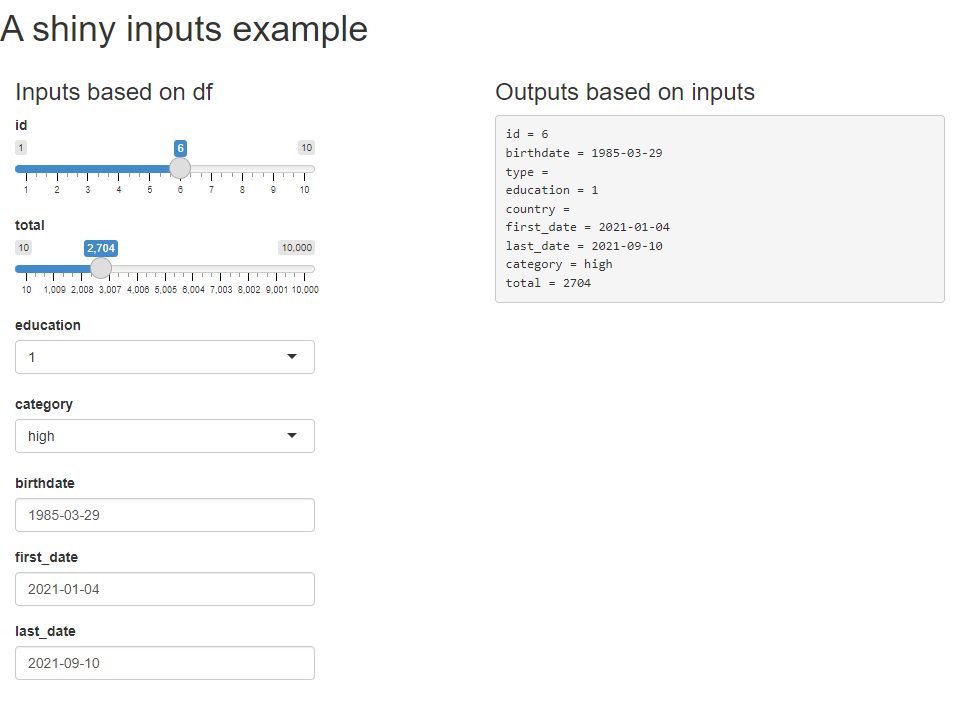
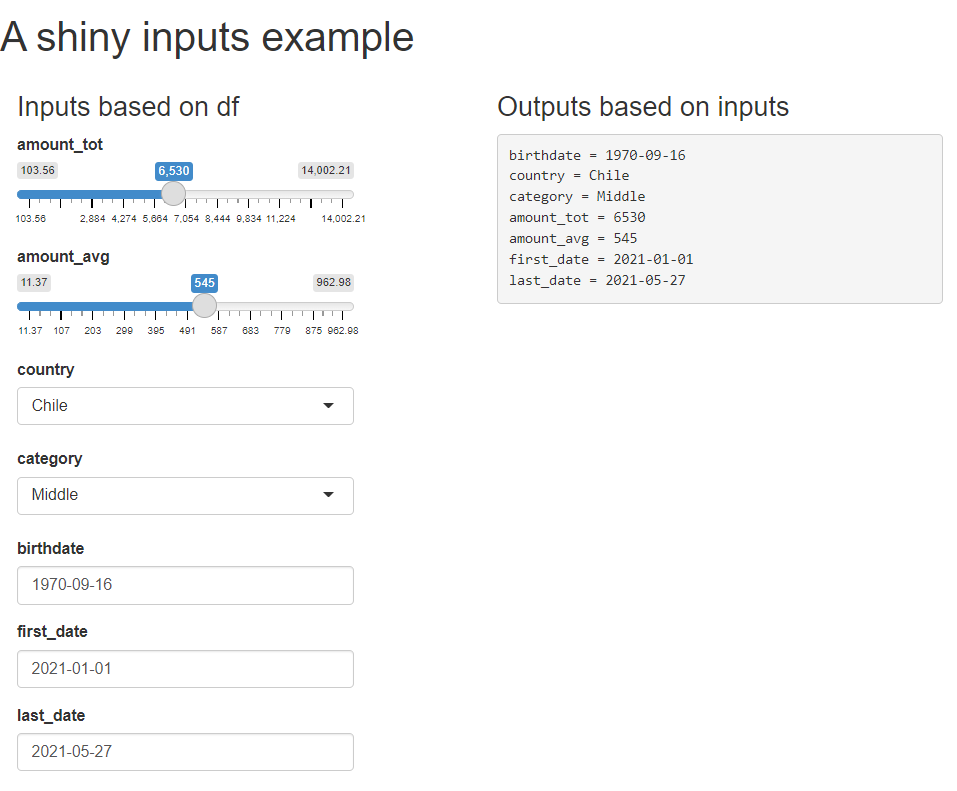
autoinput multiple

diff --git a/README.md b/README.md
@@ -32,21 +32,19 @@ library(shinymatic)
 Data:
 
 ``` r
-load('data/df.rda')
+load('data/customers.rda')
 ```
 
 Data structure:
 
-    ## 'data.frame':    10 obs. of  9 variables:
-    ##  $ id        : num  1 2 3 4 5 6 7 8 9 10
-    ##  $ birthdate : Date, format: "1993-02-08" "1986-04-20" ...
-    ##  $ type      : chr  "regular" "regular" "regular" "lost" ...
-    ##  $ education : Factor w/ 3 levels "1","2","3": 1 2 1 3 1 3 1 1 3 2
-    ##  $ country   : chr  "argentina" "argentina" "uruguay" "brasil" ...
-    ##  $ first_date: Date, format: "2022-02-01" "2021-05-10" ...
-    ##  $ last_date : Date, format: "2022-06-07" "2022-05-10" ...
-    ##  $ category  : Factor w/ 2 levels "high","low": 1 2 1 2 2 2 1 1 1 2
-    ##  $ total     : num  3457 500 10000 15 40 ...
+    ## 'data.frame':    20 obs. of  7 variables:
+    ##  $ birthdate : Date, format: "1999-07-28" "1976-06-26" ...
+    ##  $ country   : Factor w/ 4 levels "Argentina","Brasil",..: 3 1 3 4 3 2 2 3 3 4 ...
+    ##  $ category  : Factor w/ 3 levels "High","Low","Middle": 3 1 1 2 2 3 3 3 3 3 ...
+    ##  $ amount_tot: num  7765 123 8766 2453 5450 ...
+    ##  $ amount_avg: num  747 623 630 225 224 ...
+    ##  $ first_date: Date, format: "2021-06-30" "2021-02-23" ...
+    ##  $ last_date : Date, format: "2021-11-23" "2021-07-19" ...
 
 User interface that includes
 
@@ -55,9 +53,9 @@ ui <- shiny::fluidPage(fluidRow(
   h1('   A shiny inputs example'),
   column(3,
     h3('Inputs based on df'),
-    autoinput_numerical(.df = df),
-    autoinput_categorical(.df = df),
-    autoinput_date(.df = df)
+    autoinput_numerical(.df = customers),
+    autoinput_categorical(.df = customers),
+    autoinput_date(.df = customers)
   ),
   column(3,
     h3('Outputs based on inputs'),
@@ -73,7 +71,7 @@ input:
 server <- function(input, output) {
   output$values <- reactive({
     paste0(sapply(
-      names(df),
+      names(customers),
       FUN = function(i)
         paste(i, "=", input[[i]])
     ),
@@ -99,7 +97,7 @@ shinymatic::autoinputs()
 ui <- shiny::fluidPage(fluidRow(
  column(3,
         h3('Inputs based on df'),
-        autoinputs(.df=df)
+        autoinputs(.df=customers)
  ),
  column(3,
         h3('Outputs based on inputs'),
@@ -110,7 +108,7 @@ ui <- shiny::fluidPage(fluidRow(
 server <- function(input, output) {
  output$values <- reactive({
    paste0(sapply(
-     names(df),
+     names(customers),
      FUN = function(i) paste(i, "=", input[[i]])),
      collapse = '\n')
  })
